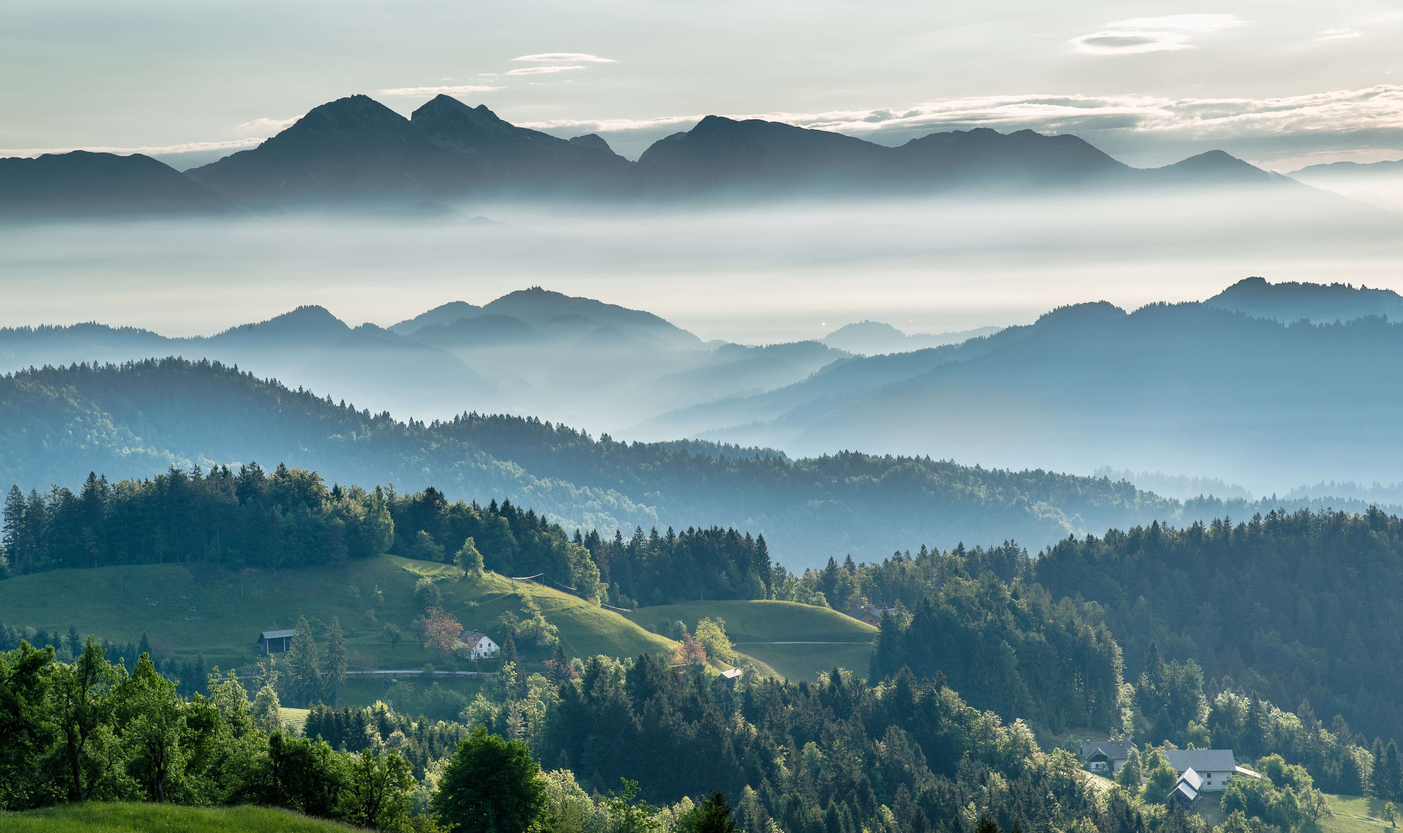
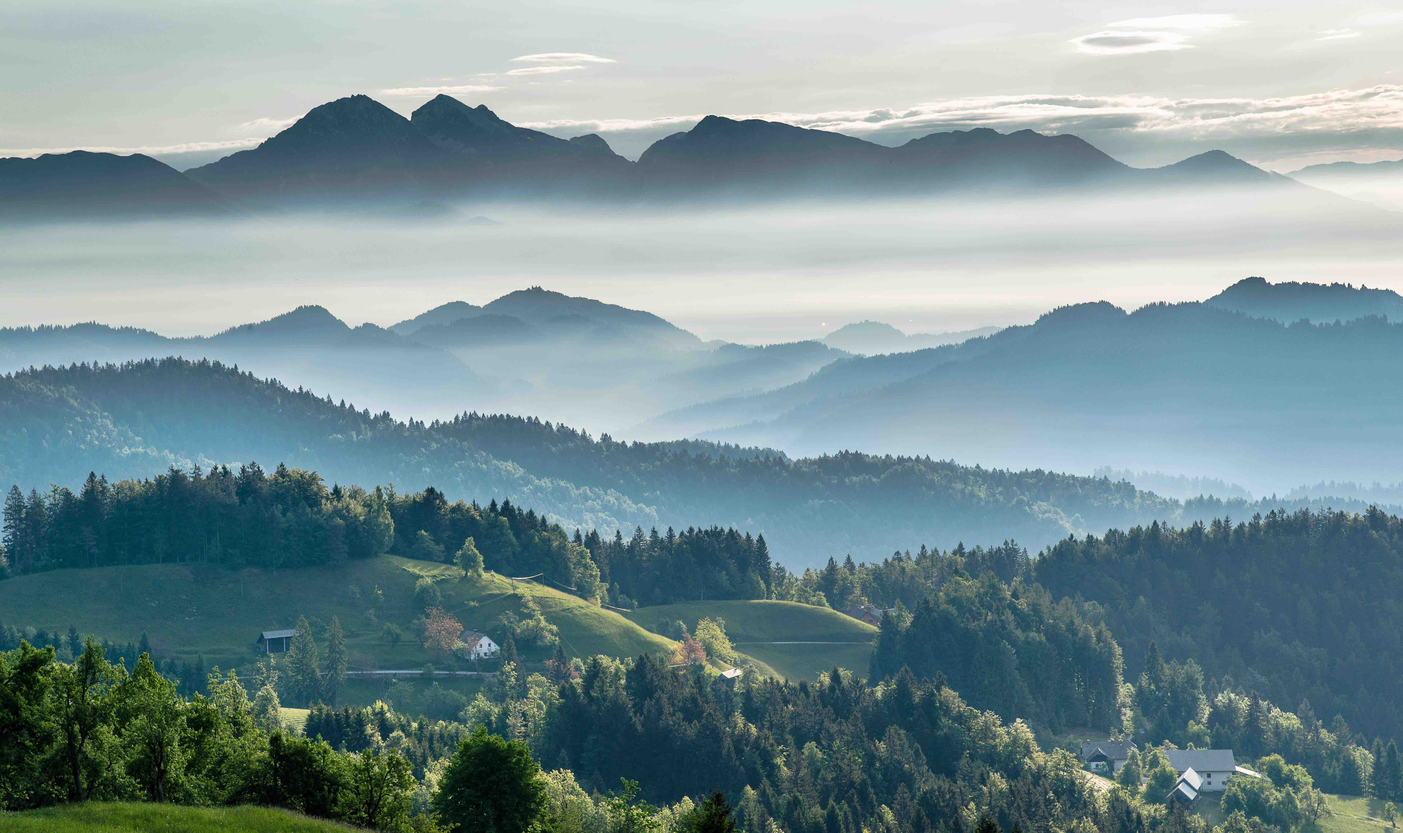
Optimizacion de imagenes

diff --git a/index.html b/index.html
@@ -90,7 +90,7 @@
   </section>
   <!-- Viajes en TENDENCIA -->
   <section class="container-fluid section-tendencia">
-    <h2 class="d-flex justify-content-center text-tendencia">VIAJES EN <span id="text-celeste">TENDENCIA</span></h2>
+    <h1 class="d-flex justify-content-center text-tendencia">VIAJES EN <span id="text-celeste">TENDENCIA</span></h1>
     <div class="d-flex row justify-content-center">
       <!-- NEW YORK -->
       <div class="card cards col-12 col-xxl-2 transition" style="width: 15rem;">
